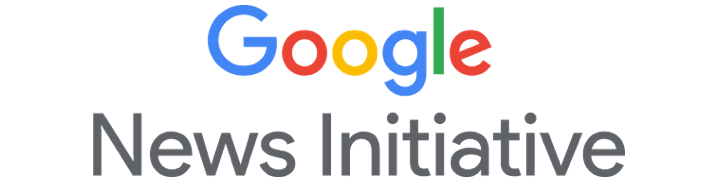
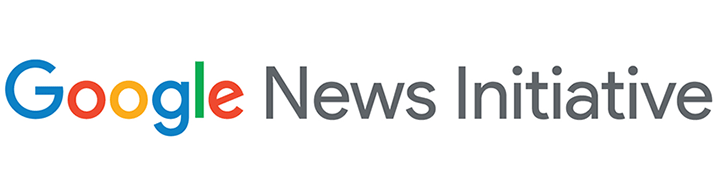
add google sponsor info

Changed region(s): [[0.0, 0.0278, 1.0, 1.0]]

diff --git a/media/css/style.css b/media/css/style.css
@@ -277,40 +277,41 @@ footer #footer-details .page-container {
     grid-template-columns: repeat(auto-fit, minmax(300px, 1fr));
 }
 
-.sponsor-list a,
+.sponsor-list a {
+    display: inline-block;
+    margin: 0 5% .67em 0;
+    width: 30%;
+}
+.sponsor-list a.narrow-logo {
+    width: 15%;
+}
+.sponsor-list a.wide-logo {
+    width: 40%;
+}
+.sponsor-list a img {
+    width: 100%;
+    vertical-align: middle;
+}
+
 .sponsor-list div {
     display: block;
-    margin: .5em 0;
+    margin: 0 0 .67em 0;
     text-align: center;
 }
 .sponsor-list h3 + a {
-    display: inline;
+    width: 95%;
+    display: inline-block;
 }
-.sponsor-list img {
-    width: 100%;
+.sponsor-list h3 + a.narrow-logo {
+    width: 55%;
 }
-.sponsor-list .narrow-logo {
-    padding-left: 25px;
-}
-.sponsor-list .narrow-logo img {
-    width: auto;
-    height: 55px;
-}
-.sponsor-list,
 .sponsor-list-secondary {
     display: grid;
-    grid-template-columns: 150px 250px 320px;
-    column-gap: 35px;
-}
-.sponsor-list-secondary {
     grid-template-columns: 250px 250px 220px;
+    column-gap: 35px;
 }
 .sponsor-list-secondary div {
     text-align: left;
-}
-.sponsor-list-secondary .narrow-logo img {
-    width: auto;
-    height: 75px;
 }
 .sponsor-tag {
     font-size: 1em;
@@ -534,27 +535,40 @@ table a.session-transcript {
     .participation #header-image {
         background-position: 0 -150px;
     }
-    .sponsor-list {
+    .sponsor-list,
+    .sponsor-list h3 + a {
         display: inherit;
     }
-    .sponsor-list a {
-        text-align: left;
-    }
-    .sponsor-list img {
+    .sponsor-list a,
+    .sponsor-list h3 + a {
+        display: block;
         width: 50%;
-        height: auto;
-        margin: .5em 0;
+        text-align: left;
+        margin: 1em 0 .5em;
     }
-    .sponsor-list .narrow-logo {
-        padding-left: 0;
+    .sponsor-list h3 + a {
+        width: 45%;
     }
-    .sponsor-list .narrow-logo img {
-        width: 30%;
-        height: auto;
-        vertical-align: inherit;
+    .sponsor-list a.narrow-logo {
+        width: 20%;
+        margin: 1.5em 0;
     }
-    .sponsor-list .wide-logo img {
-        width: 67%;
+    .sponsor-list h3 + a.narrow-logo {
+        width: 25%;
+        margin: 1.5em 0;
+    }
+    .sponsor-list a.wide-logo {
+        width: 65%;
+    }
+    .sponsor-list h3 + a.wide-logo {
+        width: 60%;
+    }
+    .sponsor-list h3 + a {
+        margin-bottom: 2em;
+    }
+    .sponsor-list a img {
+        width: 100%;
+        vertical-align: middle;
     }
     .sponsor-block.secondary img {
         width: 67%;
@@ -598,12 +612,6 @@ table a.session-transcript {
 }
 
 @media screen and (max-width: 540px) {
-    .sponsor-list img {
-        width: 67%;
-    }
-    .sponsor-list .narrow-logo img {
-        width: 40%;
-    }
     .sponsor-tag img {
         width: 50%;
         display: block;
@@ -644,22 +652,43 @@ table a.session-transcript {
     footer #footer-sponsors .page-container {
         display: inherit;
     }
-    footer #footer-sponsors h3,
-    .sponsor-list,
-    .sponsor-list a,
-    .sponsor-list div {
+    .sponsor-list {
         display: inherit;
         text-align: center;
+        margin-bottom: 2em;
     }
-    .sponsor-list img {
+    #footer-sponsors h3 {
+        display: inherit;
+        text-align: center;
+        font-size: 1.3em;
+    }
+    .sponsor-list a,
+    .sponsor-list h3 + a {
+        display: block;
         width: 67%;
-        height: auto;
-        margin: .5em 0;
+        margin: 1em auto 0;
     }
-    .sponsor-list .narrow-logo img {
-        width: 40%;
-        vertical-align: inherit;
+    .sponsor-list h3 + a {
+        width: 55%;
     }
+    .sponsor-list a.narrow-logo {
+        width: 25%;
+    }
+    .sponsor-list h3 + a.narrow-logo {
+        width: 30%;
+    }
+    .sponsor-list a.wide-logo {
+        width: 75%;
+    }
+    .sponsor-list h3 + a.wide-logo {
+        width: 65%;
+    }
+    .sponsor-list h3 + a {
+        margin-bottom: 2em;
+    }
+    
+    
+    
     .sponsor-block img {
         width: 100%;
     }

diff --git a/_includes/footer.html b/_includes/footer.html
@@ -5,6 +5,7 @@
         <div class="sponsor-list">
             <a href="https://vip.wordpress.com/" class="narrow-logo"><img src="/media/img/partners/wordpress_vip2.png"></a>
             <a href="https://www.nytimes.com/"><img src="/media/img/partners/nyt.png"></a>
+            <a href="https://newsinitiative.withgoogle.com/"><img src="/media/img/partners/google_news_initiative.png" alt="Google News Initiative"></a>
             <a href="https://www.facebookjournalismproject.com" class="wide-logo"><img src="/media/img/partners/facebook_journalism_2.png"></a>
         </div>
     </div>

diff --git a/sponsors.md b/sponsors.md
@@ -24,6 +24,11 @@ permalink: /sponsors/index.html
 </div>
 
 <div class="sponsor-block">
+    <a href="https://newsinitiative.withgoogle.com/"><img src="/media/img/partners/google_news_initiative.png" alt="Google News Initiative"></a>
+    <p>The Google News Initiative is our effort to bring together everything we do as a company—across products, partnerships, and programs—to help journalism thrive in the digital age. We are focused on three key objectives: elevating quality information (which includes combating misinformation), evolving business models to support quality journalism (beyond ads to subscriptions), and empowering news organizations to use new technology (like AI) to meet their needs.</p>
+</div>
+
+<div class="sponsor-block">
     <h2>Accessibility sponsor - Transcription</h2>
 </div>
 
